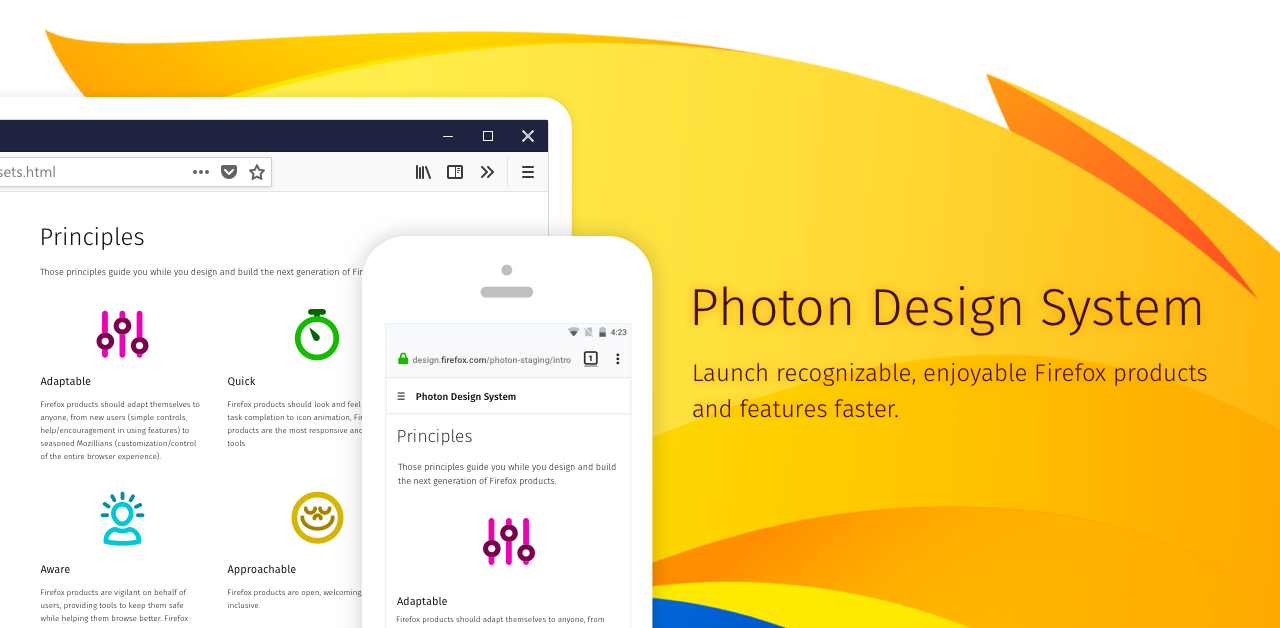
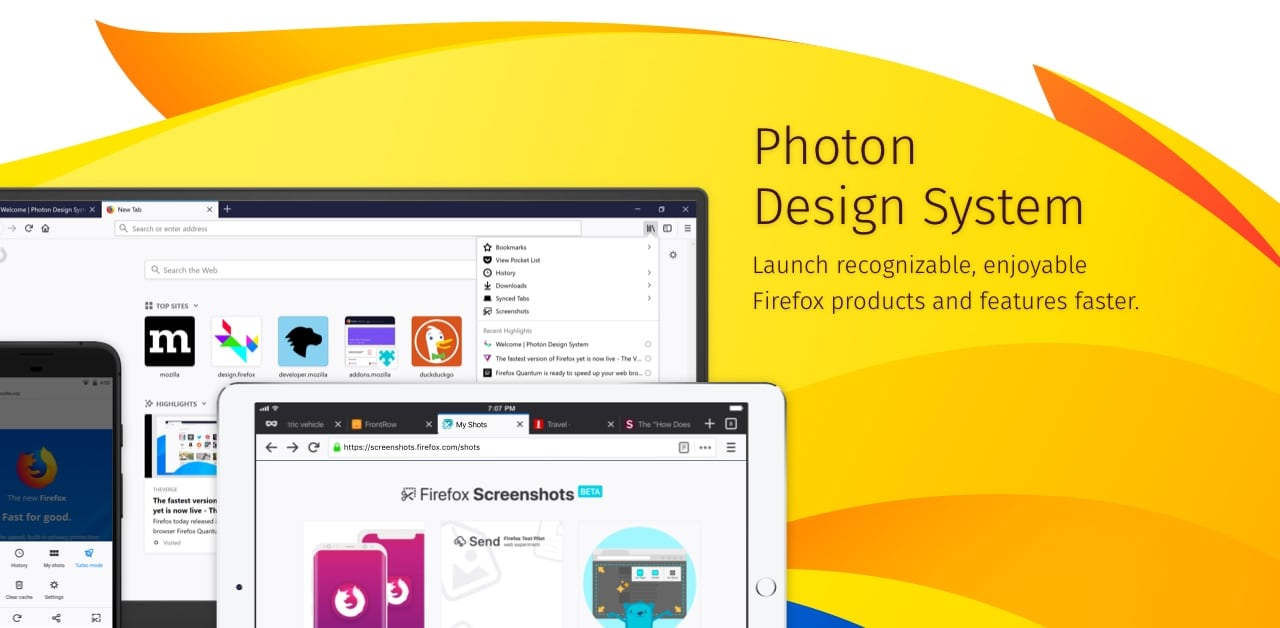
[update] hero and social media images
this is the last addition to fix #260

diff --git a/contents/welcome.html b/contents/welcome.html
@@ -5,7 +5,7 @@
 
 <div class="dt w-100 vh-25 tc mb4 bg-top cover" style="background-image: url('images/global/hero-welcome-background.svg')">
   <div class="dtc v-btm">
-    <img class="db w-100 center mw8-ns ph3 border-box" src="images/global/hero-welcome-foreground-3.png" alt="Firefox on Mobile and on Desktop. On Desktop it shows the New Tab page, and the history/bookmark menu is expanded. On mobile mozilla.org is shown.">
+    <img class="db w-100 center mw8-ns ph3 border-box" src="images/global/hero-welcome-foreground.png" alt="Firefox Products on Android, on iPad and on Desktop.">
   </div>
 </div>
 
